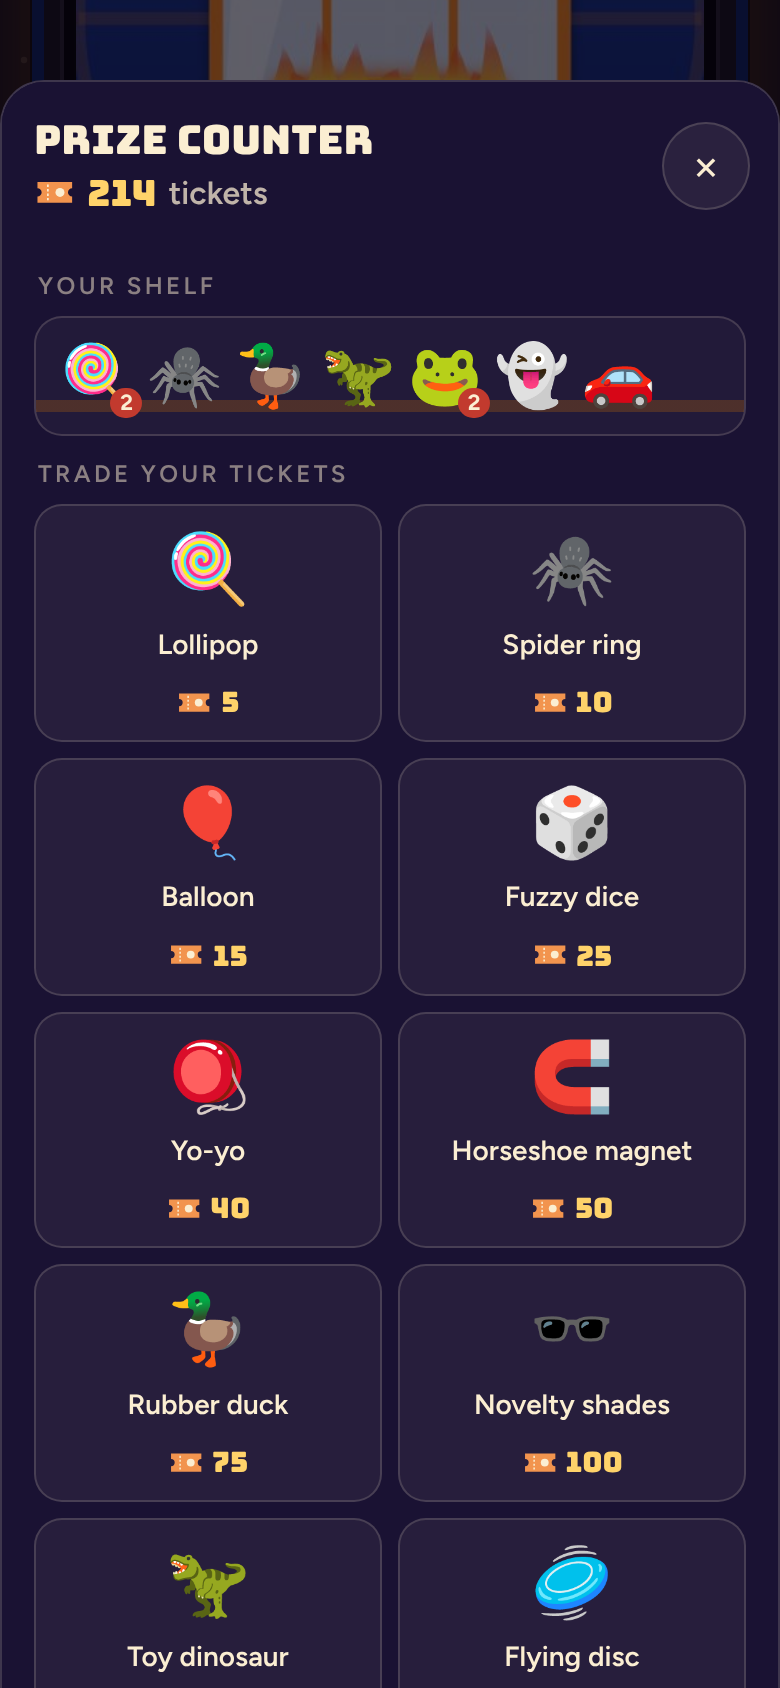
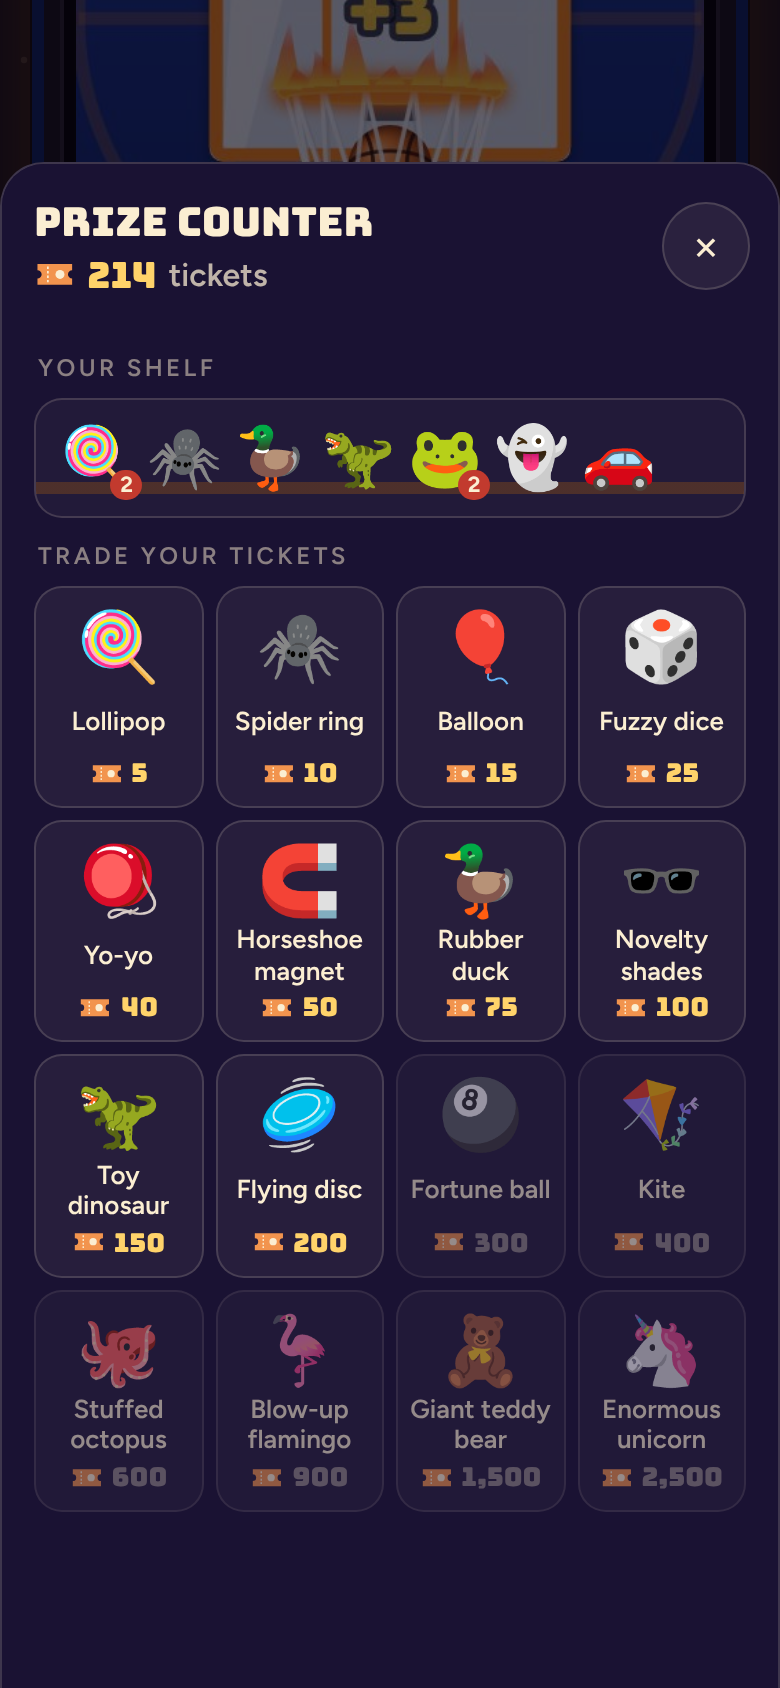
The prize counter shows four prizes a row on a phone
Mark said yes to 'Prize counter on a phone: four prizes a row'. On a
phone the counter laid its sixteen prizes out two across (three on the
largest phones), so they took eight rows and the counter scrolled about
1,460 px with a full shelf. Now they stand four a row on a phone as on a
computer, narrower, with their names and prices at 13 px instead of 14,
and three a row on the narrowest phones, under 350 px. At 390 x 844 the
counter is now about 810 px tall instead of 1,350. Each prize is still
111 px tall to tap, and every name and price stays inside its tile from
320 px up. A computer's counter is four across as before. A new test
checks the prizes a row at seven widths from 320 to 1,280 px, on the
floor and on Hoops, and that every one is at least 44 px tall with its
name and price inside it; it fails without this change. The README's
picture of the counter is redrawn, and sw.js's FILES follows the change.

Claude-Session: https://claude.ai/code/session_01RkvUFhzoaPZyofz3pSrJ5i

diff --git a/shared/arcade.css b/shared/arcade.css
@@ -80,7 +80,9 @@ html { -webkit-text-size-adjust: 100%; text-size-adjust: 100%; }
 }
 .fp-item:active { transform: scale(.9); }
 .fp-shelf sub { position: absolute; right: -4px; bottom: -2px; font: 700 11px var(--fp-body); color: var(--fp-ink); background: var(--fp-red); border-radius: 999px; padding: 1px 5px; }
-.fp-grid { display: grid; grid-template-columns: repeat(auto-fill, minmax(118px, 1fr)); gap: 8px; }
+/* Four prizes a row, on a phone as on a computer, so all sixteen fit on about one phone screen (see the phone's sizes
+   below). */
+.fp-grid { display: grid; grid-template-columns: repeat(4, minmax(0, 1fr)); gap: 8px; }
 .fp-prize {
   display: flex; flex-direction: column; align-items: center; gap: 2px; padding: 12px 8px 10px; border-radius: 14px;
   background: rgba(251, 238, 210, .06); border: 1px solid var(--fp-line); text-align: center; color: var(--fp-ink);
@@ -92,6 +94,14 @@ html { -webkit-text-size-adjust: 100%; text-size-adjust: 100%; }
 .fp-prize.short { opacity: .55; }
 .fp-prize.short .c { color: var(--fp-ink3); }
 .fp-prize:not(.short):active { background: rgba(251, 238, 210, .14); }
+/* On a phone the four are narrower, with their names and prices a size down, and on the narrowest phones (under 350 px)
+   they go three a row. */
+@media (max-width: 460px) {
+  .fp-grid { gap: 6px; }
+  .fp-prize { padding: 10px 4px 8px; }
+  .fp-prize .n, .fp-prize .c { font-size: 13px; }
+}
+@media (max-width: 349.98px) { .fp-grid { grid-template-columns: repeat(3, minmax(0, 1fr)); } }
 .fp-sheet button:focus-visible { outline: 2px solid var(--fp-gold); outline-offset: 3px; }
 .fp-sheet-in:focus { outline: none; } /* a tap on a blank part of the sheet keeps the focus in it, unmarked */
 

diff --git a/sw.js b/sw.js
@@ -9,7 +9,7 @@
 // match (it says what to), which changes this file, so every copy is made whole again at once. Bump CACHE's number
 // as well when the list itself changes.
 const CACHE = 'free-play-v9';
-const FILES = '4d6a2bbd'; // test/arcade.test.mjs checks this
+const FILES = '5dc6fca8'; // test/arcade.test.mjs checks this
 const SHELL = [
   './', 'index.html', 'icon.svg', 'manifest.webmanifest', 'icon-180.png', 'icon-192.png',
   // the page for an address that is not there
